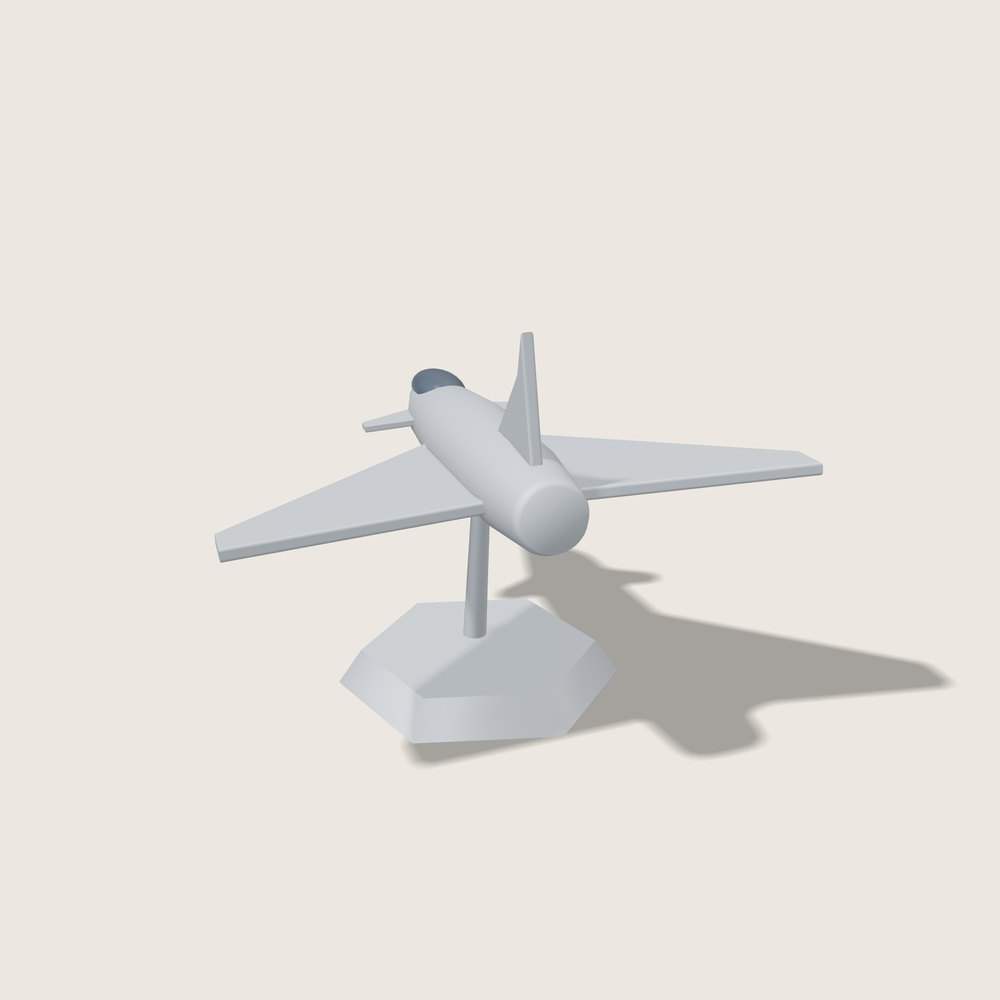
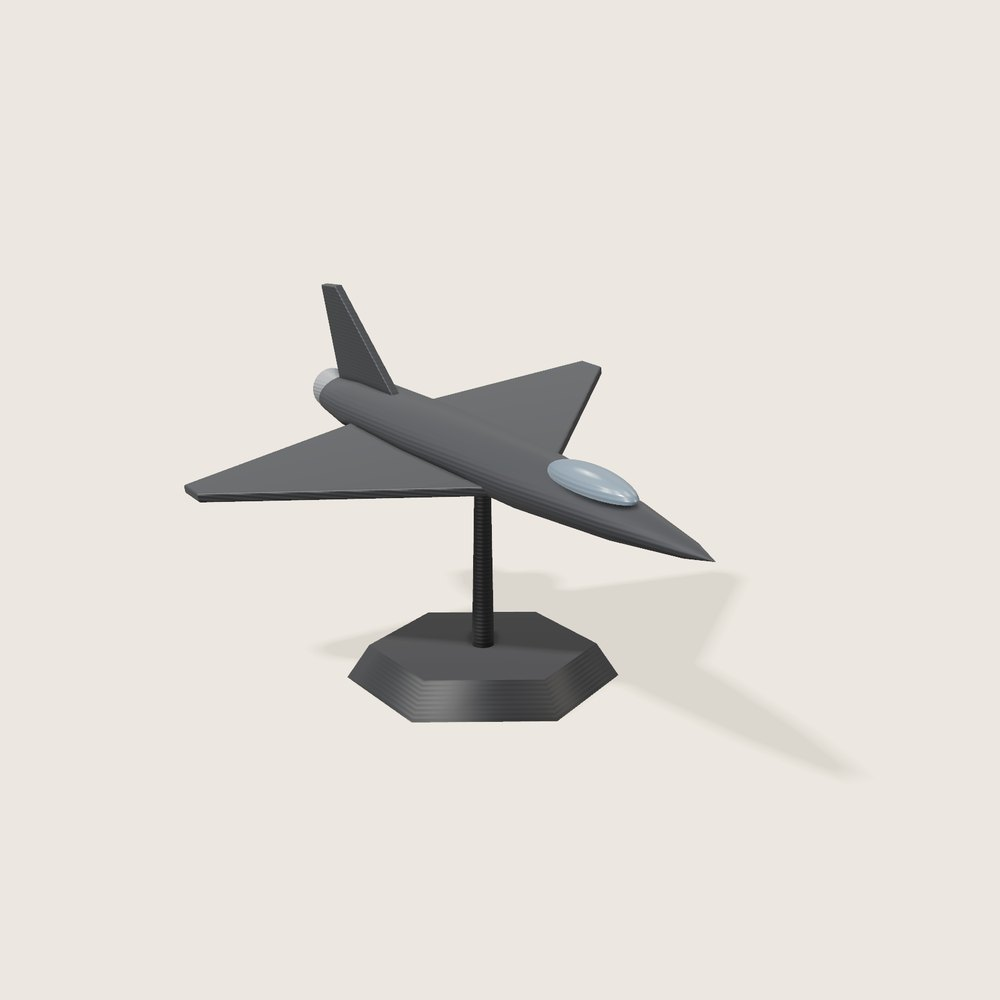
Add files via upload

Changed region(s): [[0.186, 0.279, 0.961, 0.775]]

diff --git a/index.html b/index.html
@@ -22,7 +22,7 @@
   <link rel="preconnect" href="https://fonts.gstatic.com" crossorigin>
   <link href="https://fonts.googleapis.com/css2?family=JetBrains+Mono:wght@400;600&family=Space+Grotesk:wght@500;700&display=swap" rel="stylesheet">
   <!-- The version number forces browsers to load new files after each update -->
-  <link rel="stylesheet" href="styles.css?v=8">
+  <link rel="stylesheet" href="styles.css?v=9">
 </head>
 <body>
   <header class="topbar">
@@ -218,7 +218,7 @@
 
   <footer class="footer">
     <p>Engineering Printing, Greater Toronto Area. Prices in CAD.</p>
-    <p>An independent maker. Not affiliated with or endorsed by any aerospace manufacturer, BMW or Logitech. BMW, M4, Logitech and MX are trademarks of their owners and are used only to describe fit and compatibility.</p>
+    <p>An independent maker. Not affiliated with or endorsed by Lockheed Martin, Boeing, BMW, Logitech or any other manufacturer. Aircraft, vehicle and product names are trademarks of their owners and are used only to describe the subject or fit.</p>
     <p><a href="mailto:engineeringprinting082@gmail.com">engineeringprinting082@gmail.com</a></p>
   </footer>
 
@@ -259,8 +259,8 @@
     <div id="orderDone" hidden></div>
   </dialog>
 
-  <script src="products.js?v=8"></script>
-  <script src="art.js?v=8"></script>
-  <script src="app.js?v=8"></script>
+  <script src="products.js?v=9"></script>
+  <script src="art.js?v=9"></script>
+  <script src="app.js?v=9"></script>
 </body>
 </html>

diff --git a/app.js b/app.js
@@ -20,7 +20,7 @@ const unitPrice = (line) => {
   return opt ? opt.price : p.price;
 };
 // Card and dialog price label, for example "From $3.00 CAD" or "Quoted per file".
-const priceLabel = (p) => p.quote ? "Quoted per file" : p.options ? `From ${money(Math.min(...p.options.map((o) => o.price)))} CAD` : `${money(p.price)} CAD`;
+const priceLabel = (p) => p.quote ? "Quoted per file" : p.options && new Set(p.options.map((o) => o.price)).size > 1 ? `From ${money(Math.min(...p.options.map((o) => o.price)))} CAD` : `${money(p.price)} CAD`;
 
 function loadCart() {
   try {
@@ -147,10 +147,11 @@ function openProduct(p) {
   let optionSelect = null;
   if (p.options) {
     const label = document.createElement("label");
-    label.textContent = "Option ";
+    label.textContent = p.id === "concept-jet" ? "Aircraft " : "Option ";
     optionSelect = document.createElement("select");
     optionSelect.name = "option";
-    p.options.forEach((o) => optionSelect.add(new Option(`${o.label} (${money(o.price)})`, o.label)));
+    const samePrice = new Set(p.options.map((o) => o.price)).size === 1;
+    p.options.forEach((o) => optionSelect.add(new Option(samePrice ? o.label : `${o.label} (${money(o.price)})`, o.label)));
     label.append(optionSelect);
     select.closest("label").before(label);
   }

diff --git a/products.js b/products.js
@@ -14,9 +14,13 @@ const PRODUCTS = [
     blurb: "A cutaway turbofan showing the fan, compressor and turbine stages on a matching stand.",
   },
   {
-    id: "concept-jet", photo: "render-jet.jpg", name: "Desk Jet Model", category: "Display", price: 16.5,
+    id: "concept-jet", photo: "render-jet.jpg", name: "Desk Aircraft Model", category: "Display", price: 16.5,
+    options: [
+      { label: "Concept jet (shown)", price: 16.5 }, { label: "F-35", price: 16.5 }, { label: "F-22", price: 16.5 },
+      { label: "C-130", price: 16.5 }, { label: "P-51 Mustang", price: 16.5 },
+    ],
     size: "About 20 cm long, with stand", colours: MODEL_COLOURS, art: "jet",
-    blurb: "A sleek concept jet, angled on a faceted display stand.",
+    blurb: "A scale desk model on a faceted stand. Choose the concept jet shown, or an F-35, F-22, C-130 or P-51 Mustang.",
   },
   {
     id: "engineering-stick", photo: "render-stick.jpg", name: "Engineering Stick Gift Box", category: "Gifts", price: 8, tag: "Gift pick",
